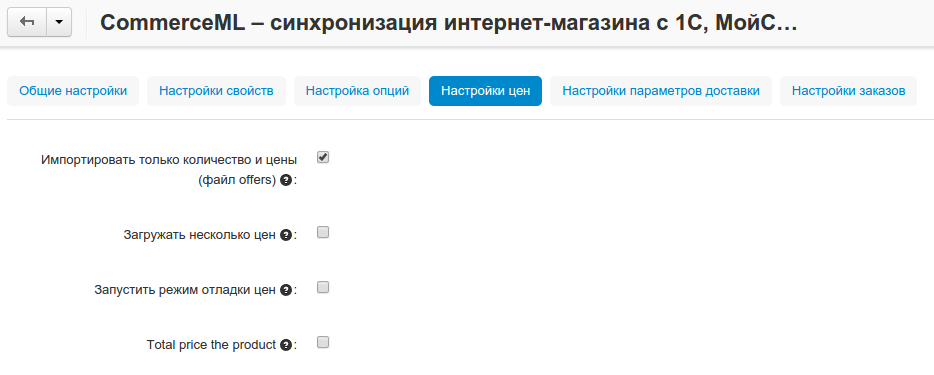
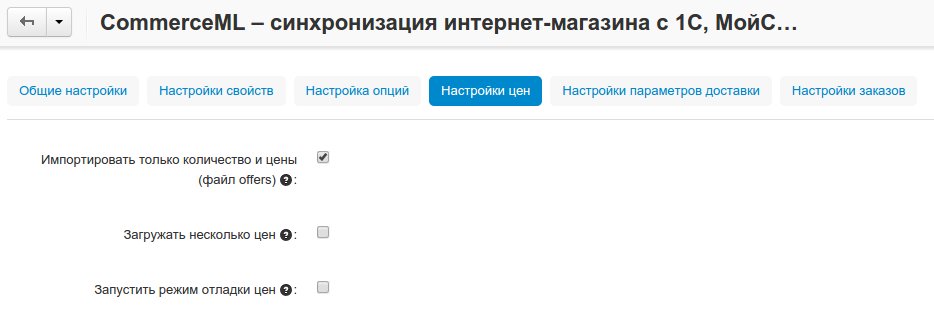
Ru: User Guide: CommerceML: Info on a removed checkbox removed.

diff --git a/ru/user_guide/addons/commerceml/1c/instruction/ut10/index.rst b/ru/user_guide/addons/commerceml/1c/instruction/ut10/index.rst
@@ -350,8 +350,6 @@
 
 Для проверки введенных цен в окне "Цены и налоги" включите настройку **Запустить режим отладки цен**.
 
-При включении настройки **Общая цена товаров**, для товара у которого есть обция в качестве цены товара будет загружатся последняя цена опции.
-
 Загрузка нескольких цен реализована с помощью цен для групп пользователей. Вы можете задать для каждой группы пользователей (Опт, Розница, Золотой клиент) свою цену на товар.
 
 Для настройки выгрузки цен и соответствия цен группам пользователей в CS-Cart перейдите на страницу "Цены и налоги".

diff --git a/ru/user_guide/addons/commerceml/1c/instruction/ut11/index.rst b/ru/user_guide/addons/commerceml/1c/instruction/ut11/index.rst
@@ -488,8 +488,6 @@
 
 Для проверки введенных цен в окне "Цены и налоги" включите настройку **Запустить режим отладки цен**.
 
-При включении настройки **Общая цена товаров**, для товара у которого есть обция в качестве цены товара будет загружатся последняя цена опции.
-
 Загрузка нескольких цен реализована с помощью цен для групп пользователей. Вы можете задать для каждой группы пользователей (Опт, Розница, Золотой клиент) свою цену на товар.
 
 Для настройки выгрузки цен и соответствия цен группам пользователей в CS-Cart перейдите на страницу "Цены и налоги".
